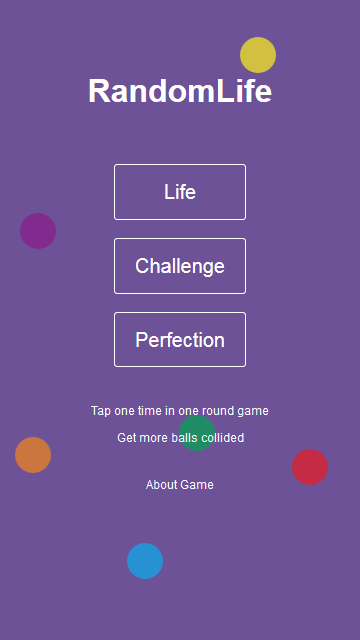
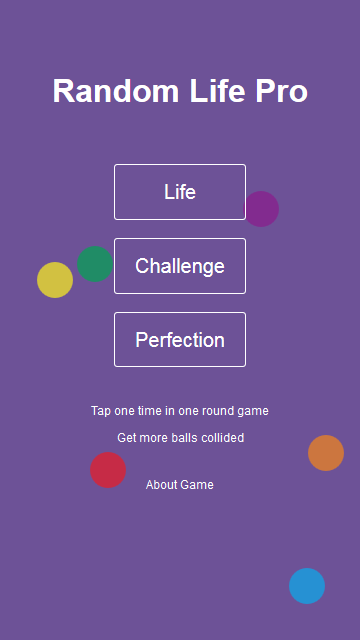
更新

diff --git a/randomlife/index.html b/randomlife/index.html
@@ -40,14 +40,15 @@
 		Life is random. You don't know who you will meet, which company you will worked in, what you will get in return.It is unknown, and this random makes wonderful fate.
 	</div>
 	<div class="rules-list">
-		<h3>RandomLife rules</h3>
-		<p>1. Click on the screen, get the big ball, when the normal ball collided the big ball, you will get score.</p>
-		<p>2. Every score multiplies the round number, then add they up, you will get total score.</p>
-		<p>3. If you get all balls in one round game, you will get more scores.</p>
-		<p>4. Obtained score minus used score, you will get final score.</p>
-		<p>5. In Life mode you will play every round game.</p>
-		<p>6. In Challenge mode you must get enough balls (or less enough balls in use mode), so you can goto next round game.</p>
-		<p>7. In Perfection mode you must get every ball (or get none ball in use mode), so you can goto next round game.</p>
+		<h3>RandomLifePro rules</h3>
+		<p>1. Tap the screen, get the big ball, when the normal ball collided the big ball, you will get score.</p>
+		<p>2. Tap the screen for 1 seconds, there will show menu and pause the game.</p>
+		<p>3. Every score multiplies the round number, then add them up, you will get total score.</p>
+		<p>4. If you get all balls in one round game, you will get more scores.</p>
+		<p>5. Obtained score minus used score, you will get final score.</p>
+		<p>6. In Life mode you will play every round game.</p>
+		<p>7. In Challenge mode you must get enough balls (or less enough balls in use mode), so you can goto next round game.</p>
+		<p>8. In Perfection mode you must get every ball (or get none ball in use mode), so you can goto next round game.</p>
 	</div>
 	<div class="play">
 		<h3>How to play</h3>
@@ -55,14 +56,16 @@
 		<div class="p-img"><img src="img/r1.png" alt="RandomLife"></div>
 		<p>When the game begin, tap the screen. You create a big ball. The other balls collide the big ball. You get score.</p>
 		<div class="p-img"><img src="img/r2.png" alt="RandomLife"></div>
-		<p>In Life Mode and Perfection Mode, there will show the previous score on the top.</p>
+		<p>Tap the screen for 1 seconds, there will show menu and pause the game.</p>
 		<div class="p-img"><img src="img/r3.png" alt="RandomLife"></div>
-		<p>In Challenge Mode, there will show the at least||most collided balls on the top.</p>
+		<p>In Life Mode and Perfection Mode, there will show the previous score on the top.</p>
 		<div class="p-img"><img src="img/r4.png" alt="RandomLife"></div>
-		<p>In Use Mode, you will expend your scores.</p>
+		<p>In Challenge Mode, there will show the at least||most collided balls on the top.</p>
 		<div class="p-img"><img src="img/r5.png" alt="RandomLife"></div>
-		<p>There will show your getted score, your used score and your final score.</p>
+		<p>In Use Mode, you will expend your scores.</p>
 		<div class="p-img"><img src="img/r6.png" alt="RandomLife"></div>
+		<p>There will show your getted score, your used score and your final score.</p>
+		<div class="p-img"><img src="img/r7.png" alt="RandomLife"></div>
 	</div>
 </body>
 </html>
